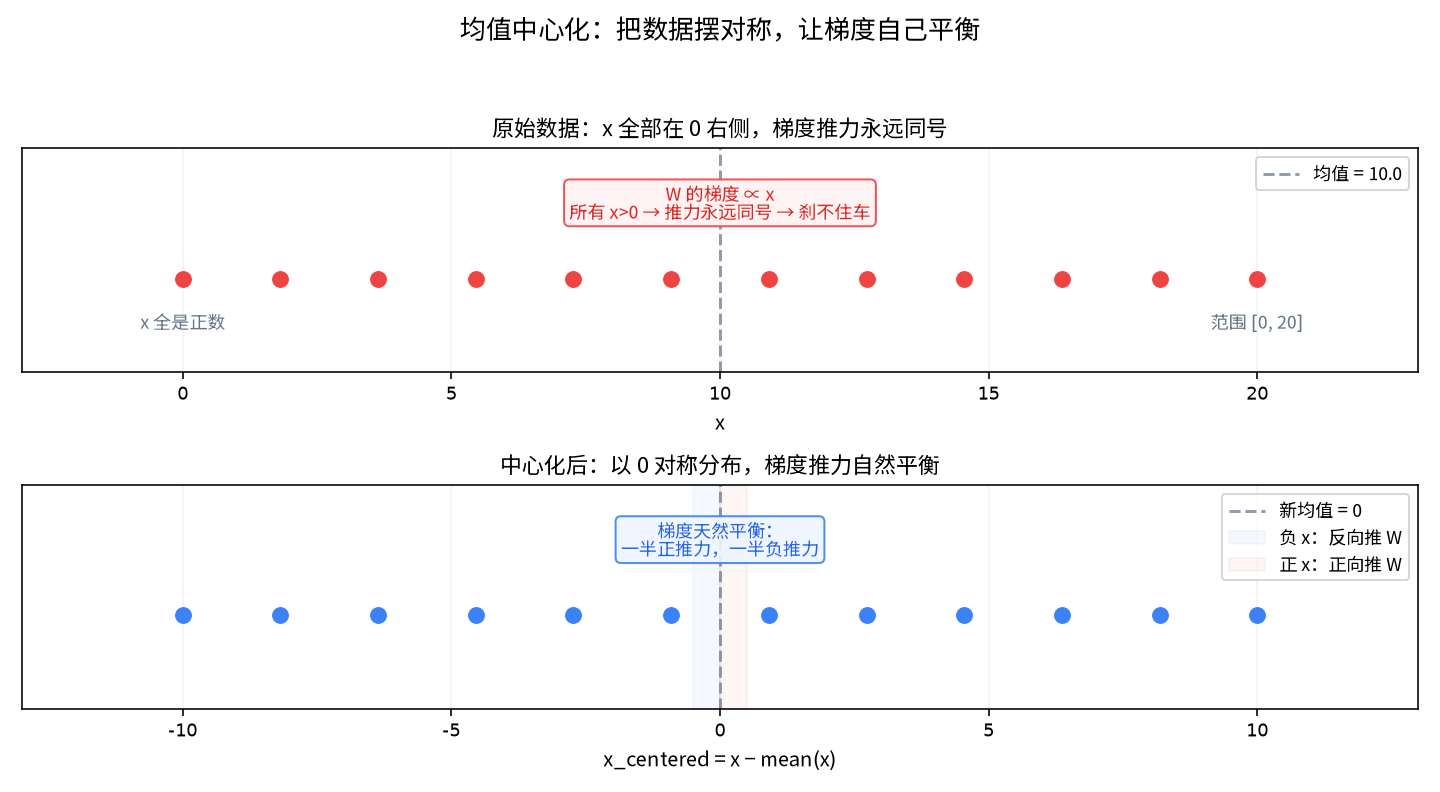
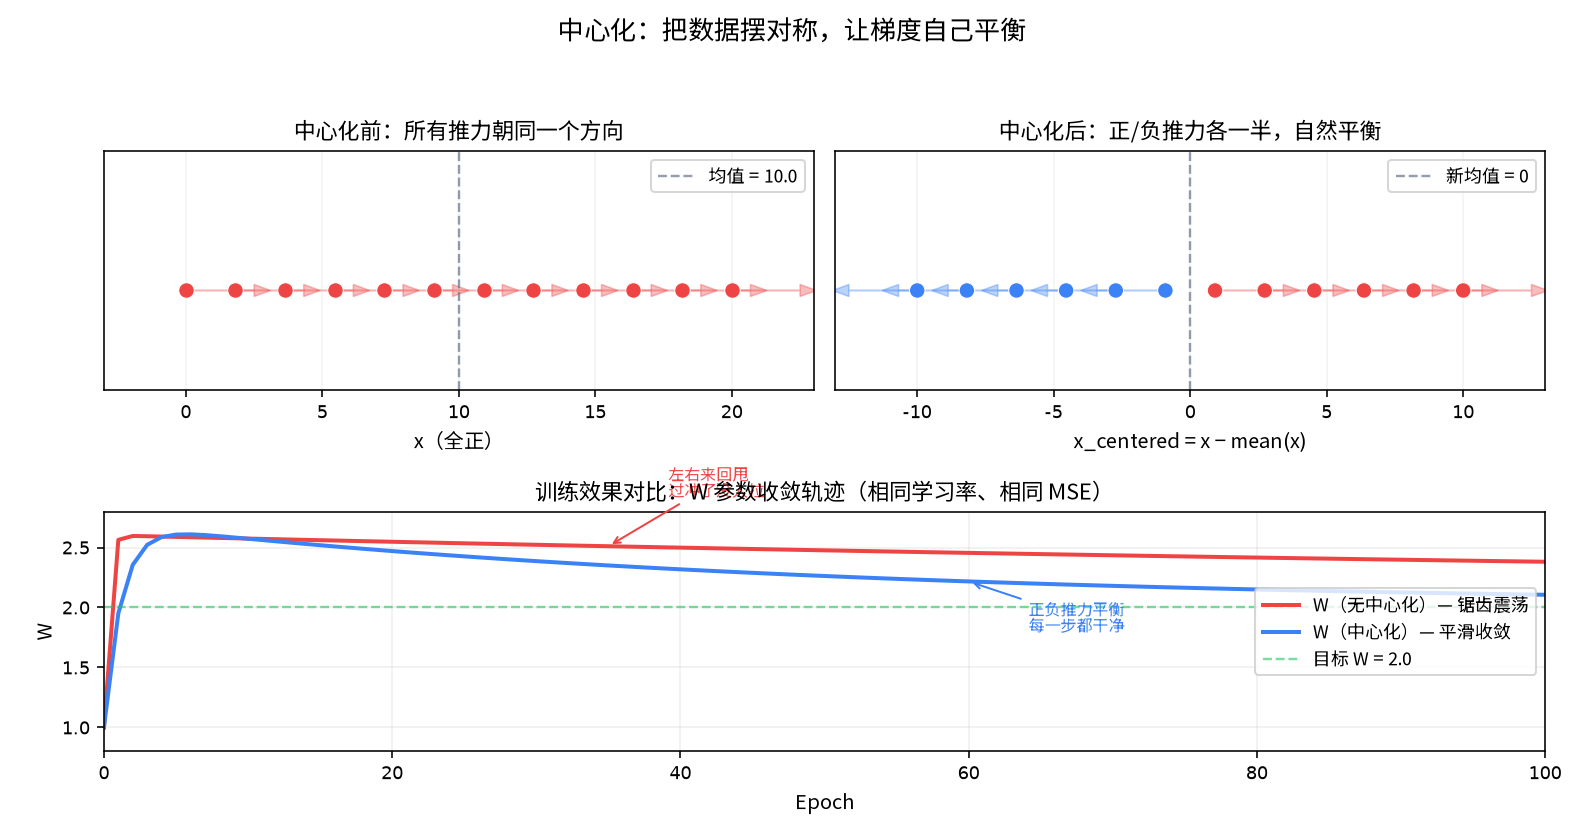
feat: centering.png 升级——加入训练效果对比
原来只有数据分布平移，现在加了下半部分：
- W 参数收敛轨迹 — 无中心化(锯齿震荡) vs 中心化(平滑收敛)
- 数据分布图加了梯度推力箭头，更直观

diff --git a/scripts/gen_v2_images.py b/scripts/gen_v2_images.py
@@ -211,10 +211,9 @@ plt.close(fig)
 print("  ✓ v2/sgd-fluctuation.png")
 
 # ================================================================
-#  3. v2/centering.png — Feature distribution before/after centering
+#  3. v2/centering.png — Before/after distribution + training effect
 # ================================================================
 np.random.seed(42)
-# Reproduce v1 data exactly
 N, MAX_X = 12, 20
 features = np.linspace(0, MAX_X, N)
 noise = (np.random.rand(N) - 0.5) * 6
@@ -223,71 +222,115 @@ labels = 2 * features + 10 + noise
 mean_x = np.mean(features)
 features_centered = features - mean_x
 
-fig = plt.figure(figsize=(10, 5.5))
+fig = plt.figure(figsize=(11, 5.8))
 
-# ---- Top: Before centering ----
-ax1 = fig.add_subplot(2, 1, 1)
-# Strip plot + histogram
+# ---- Top-left: Before centering (data distribution) ----
+ax1 = fig.add_subplot(2, 2, 1)
 ax1.scatter(features, np.ones_like(features) * 0.5,
-            c=COLORS["red"], s=80, zorder=5, edgecolors="white", linewidth=0.5)
-# vertical mean line
-ax1.axvline(x=mean_x, color="#64748b", ls="--", lw=1.5, alpha=0.7,
+            c=COLORS["red"], s=60, zorder=5, edgecolors="white", linewidth=0.5)
+ax1.axvline(x=mean_x, color="#64748b", ls="--", lw=1.2, alpha=0.7,
             label=f"均值 = {mean_x:.1f}")
-# Annotate key insight
-for x_val, label in [(0, "x 全是正数"), (MAX_X, "范围 [0, 20]")]:
-    ax1.annotate(label, (x_val, 0.5), textcoords="offset points",
-                xytext=(0, -25 if x_val == MAX_X else -25),
-                fontsize=9, color="#64748b", ha="center",
-                fontproperties=fp_sm)
 
-# Gradient direction annotation
-ax1.annotate("W 的梯度 ∝ x\n所有 x>0 → 推力永远同号 → 刹不住车",
-             xy=(mean_x, 0.5), textcoords="offset points",
-             xytext=(0, 30), fontsize=9, color="#dc2626",
-             ha="center", fontproperties=fp_sm,
-             bbox=dict(boxstyle="round,pad=0.3", facecolor="#fef2f2",
-                       edgecolor="#ef4444", alpha=0.9))
+# Show gradient push direction for each point (all right)
+for xp in features:
+    ax1.arrow(xp, 0.5, 2.5, 0, head_width=0.06, head_length=0.6,
+              fc=COLORS["red"], ec=COLORS["red"], alpha=0.35, lw=0.8)
 
-ax1.set_ylim(0, 1.2)
-ax1.set_xlim(-3, 23)
+ax1.set_ylim(0, 1.2); ax1.set_xlim(-3, 23)
 ax1.set_yticks([])
-ax1.set_title("原始数据：x 全部在 0 右侧，梯度推力永远同号", fontproperties=fp_lg)
-ax1.set_xlabel("x", fontproperties=fp_md)
-ax1.legend(prop=fp_legend, loc="upper right")
+ax1.set_title("中心化前：所有推力朝同一个方向", fontproperties=fp_lg)
+ax1.set_xlabel("x（全正）", fontproperties=fp_md)
+ax1.legend(prop=fp_legend, loc="upper right", fontsize=8)
 ax1.grid(True, alpha=0.15, axis="x")
 ax1.tick_params(labelsize=9)
 
-# ---- Bottom: After centering ----
-ax2 = fig.add_subplot(2, 1, 2)
+# ---- Top-right: After centering (data distribution) ----
+ax2 = fig.add_subplot(2, 2, 2)
+scatter_colors = [COLORS["blue"] if xc < 0 else COLORS["red"] for xc in features_centered]
 ax2.scatter(features_centered, np.ones_like(features_centered) * 0.5,
-            c=COLORS["blue"], s=80, zorder=5, edgecolors="white", linewidth=0.5)
-ax2.axvline(x=0, color="#64748b", ls="--", lw=1.5, alpha=0.7,
+            c=scatter_colors, s=60, zorder=5, edgecolors="white", linewidth=0.5)
+ax2.axvline(x=0, color="#64748b", ls="--", lw=1.2, alpha=0.7,
             label="新均值 = 0")
 
-# Color-code positive and negative x
-ax2.axvspan(-0.5, 0, alpha=0.05, color="#3b82f6", label="负 x：反向推 W")
-ax2.axvspan(0, 0.5, alpha=0.05, color="#ef4444", label="正 x：正向推 W")
+# Show gradient push directions (left for positive x, right for negative x)
+for xp, xc in zip(features, features_centered):
+    direction = 2.5 if xc > 0 else -2.5
+    color = COLORS["red"] if xc > 0 else COLORS["blue"]
+    ax2.arrow(xc, 0.5, direction, 0, head_width=0.06, head_length=0.6,
+              fc=color, ec=color, alpha=0.35, lw=0.8)
 
-ax2.annotate("梯度天然平衡：\n一半正推力，一半负推力",
-             xy=(0, 0.5), textcoords="offset points",
-             xytext=(0, 30), fontsize=9, color="#2563eb",
-             ha="center", fontproperties=fp_sm,
-             bbox=dict(boxstyle="round,pad=0.3", facecolor="#eff6ff",
-                       edgecolor="#3b82f6", alpha=0.9))
-
-ax2.set_ylim(0, 1.2)
-ax2.set_xlim(-13, 13)
+ax2.set_ylim(0, 1.2); ax2.set_xlim(-13, 13)
 ax2.set_yticks([])
 x_ticks = [-10, -5, 0, 5, 10]
 ax2.set_xticks(x_ticks)
 ax2.set_xticklabels([f"{v:.0f}" for v in x_ticks])
-ax2.set_title("中心化后：以 0 对称分布，梯度推力自然平衡", fontproperties=fp_lg)
+ax2.set_title("中心化后：正/负推力各一半，自然平衡", fontproperties=fp_lg)
 ax2.set_xlabel("x_centered = x − mean(x)", fontproperties=fp_md)
-ax2.legend(prop=fp_legend, loc="upper right")
+ax2.legend(prop=fp_legend, loc="upper right", fontsize=8)
 ax2.grid(True, alpha=0.15, axis="x")
 ax2.tick_params(labelsize=9)
 
-fig.suptitle("均值中心化：把数据摆对称，让梯度自己平衡",
+# ---- Bottom: Training effect — W trajectory with vs without centering ----
+# Simulate W convergence with same data, same lr, same MSE, but with/without centering
+np.random.seed(42)
+TRUE_W, TRUE_BIAS = 2.0, 10.0
+INIT_W, INIT_BIAS = 1.0, 0.0
+LR = 0.01
+EPOCHS = 100
+
+# Without centering: raw features
+W_raw, bias_raw = INIT_W, INIT_BIAS
+traj_raw_w = [W_raw]
+for _ in range(EPOCHS):
+    for xp, yp in zip(features, labels):
+        pred = W_raw * xp + bias_raw
+        diff = pred - yp
+        W_raw -= LR * 2 * diff * xp / N
+        bias_raw -= LR * 2 * diff / N
+    traj_raw_w.append(W_raw)
+
+# With centering
+W_cen, bias_cen = INIT_W, INIT_BIAS
+traj_cen_w = [W_cen]
+for _ in range(EPOCHS):
+    for xp, yp in zip(features_centered, labels):
+        pred = W_cen * xp + bias_cen
+        diff = pred - yp
+        W_cen -= LR * 2 * diff * xp / N
+        bias_cen -= LR * 2 * diff / N
+    traj_cen_w.append(W_cen)
+
+ax3 = fig.add_subplot(2, 1, 2)
+epochs_arr = np.arange(EPOCHS + 1)
+ax3.plot(epochs_arr, traj_raw_w, COLORS["red"], lw=2,
+         label="W（无中心化）— 锯齿震荡")
+ax3.plot(epochs_arr, traj_cen_w, COLORS["blue"], lw=2,
+         label="W（中心化）— 平滑收敛")
+ax3.axhline(y=TRUE_W, color="#22c55e", ls="--", lw=1.2, alpha=0.6,
+            label=f"目标 W = {TRUE_W}")
+
+# Annotate zigzag vs smooth
+ax3.annotate("左右来回甩\n过冲了没人拉",
+             (35, traj_raw_w[35]), textcoords="offset points",
+             xytext=(30, 25), fontsize=8, color=COLORS["red"],
+             fontproperties=fp_sm,
+             arrowprops=dict(arrowstyle="->", color=COLORS["red"], lw=1))
+ax3.annotate("正负推力平衡\n每一步都干净",
+             (60, traj_cen_w[60]), textcoords="offset points",
+             xytext=(30, -25), fontsize=8, color=COLORS["blue"],
+             fontproperties=fp_sm,
+             arrowprops=dict(arrowstyle="->", color=COLORS["blue"], lw=1))
+
+ax3.set_xlim(0, EPOCHS); ax3.set_ylim(0.8, 2.8)
+ax3.grid(True, alpha=0.2)
+ax3.legend(prop=fp_legend, loc="center right", fontsize=8)
+ax3.set_title("训练效果对比：W 参数收敛轨迹（相同学习率、相同 MSE）",
+            fontproperties=fp_lg)
+ax3.set_xlabel("Epoch", fontproperties=fp_md)
+ax3.set_ylabel("W", fontproperties=fp_md)
+ax3.tick_params(labelsize=9)
+
+fig.suptitle("中心化：把数据摆对称，让梯度自己平衡",
             fontproperties=fp_xl)
 fig.tight_layout(rect=[0, 0, 1, 0.94])
 fig.savefig(OUT_V2 / "centering.png", dpi=144)
